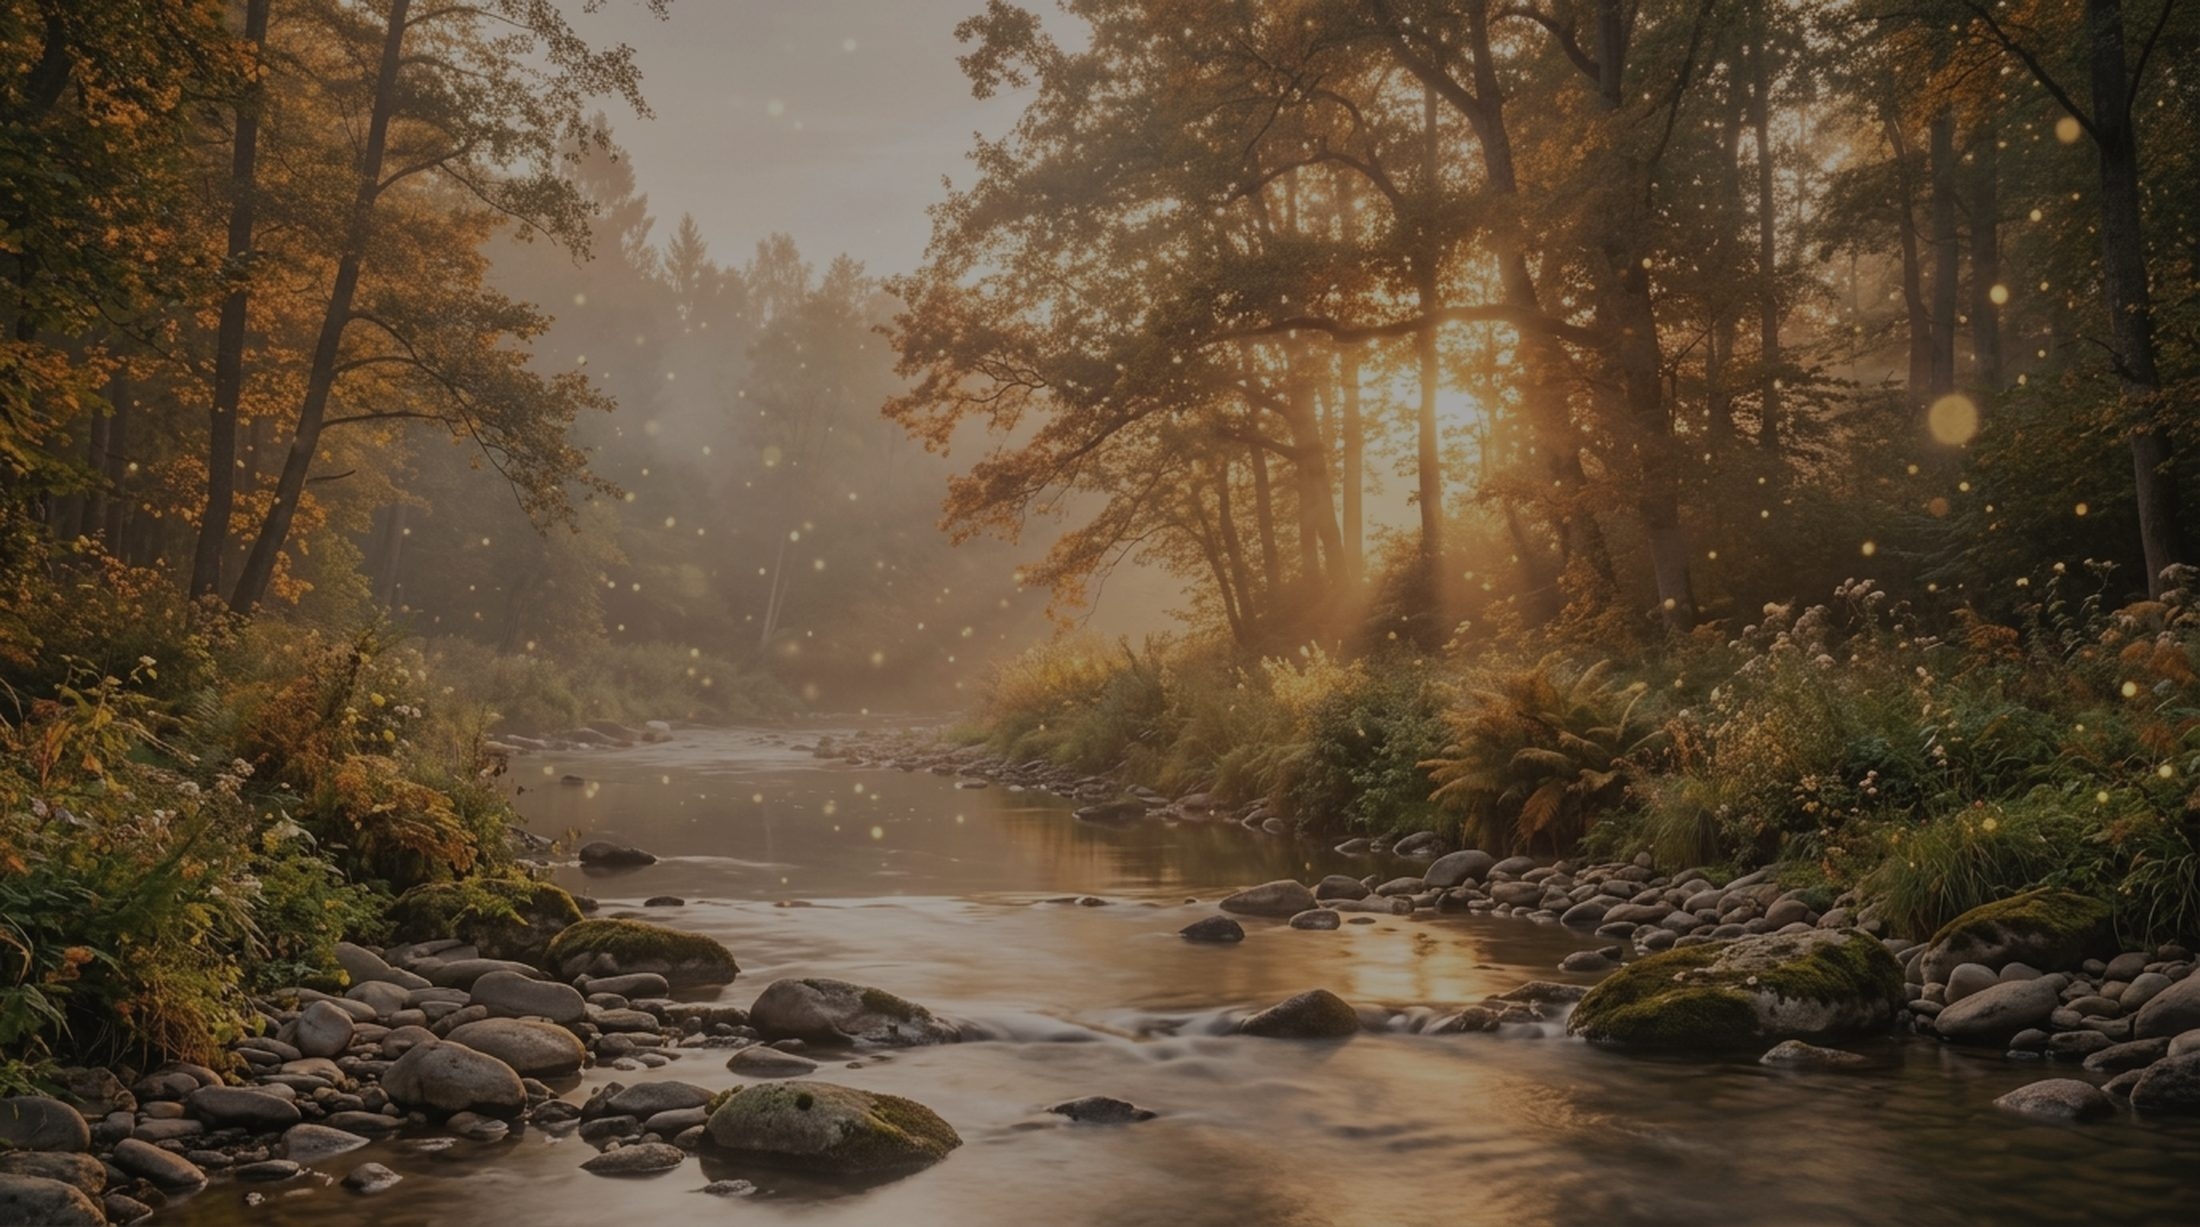
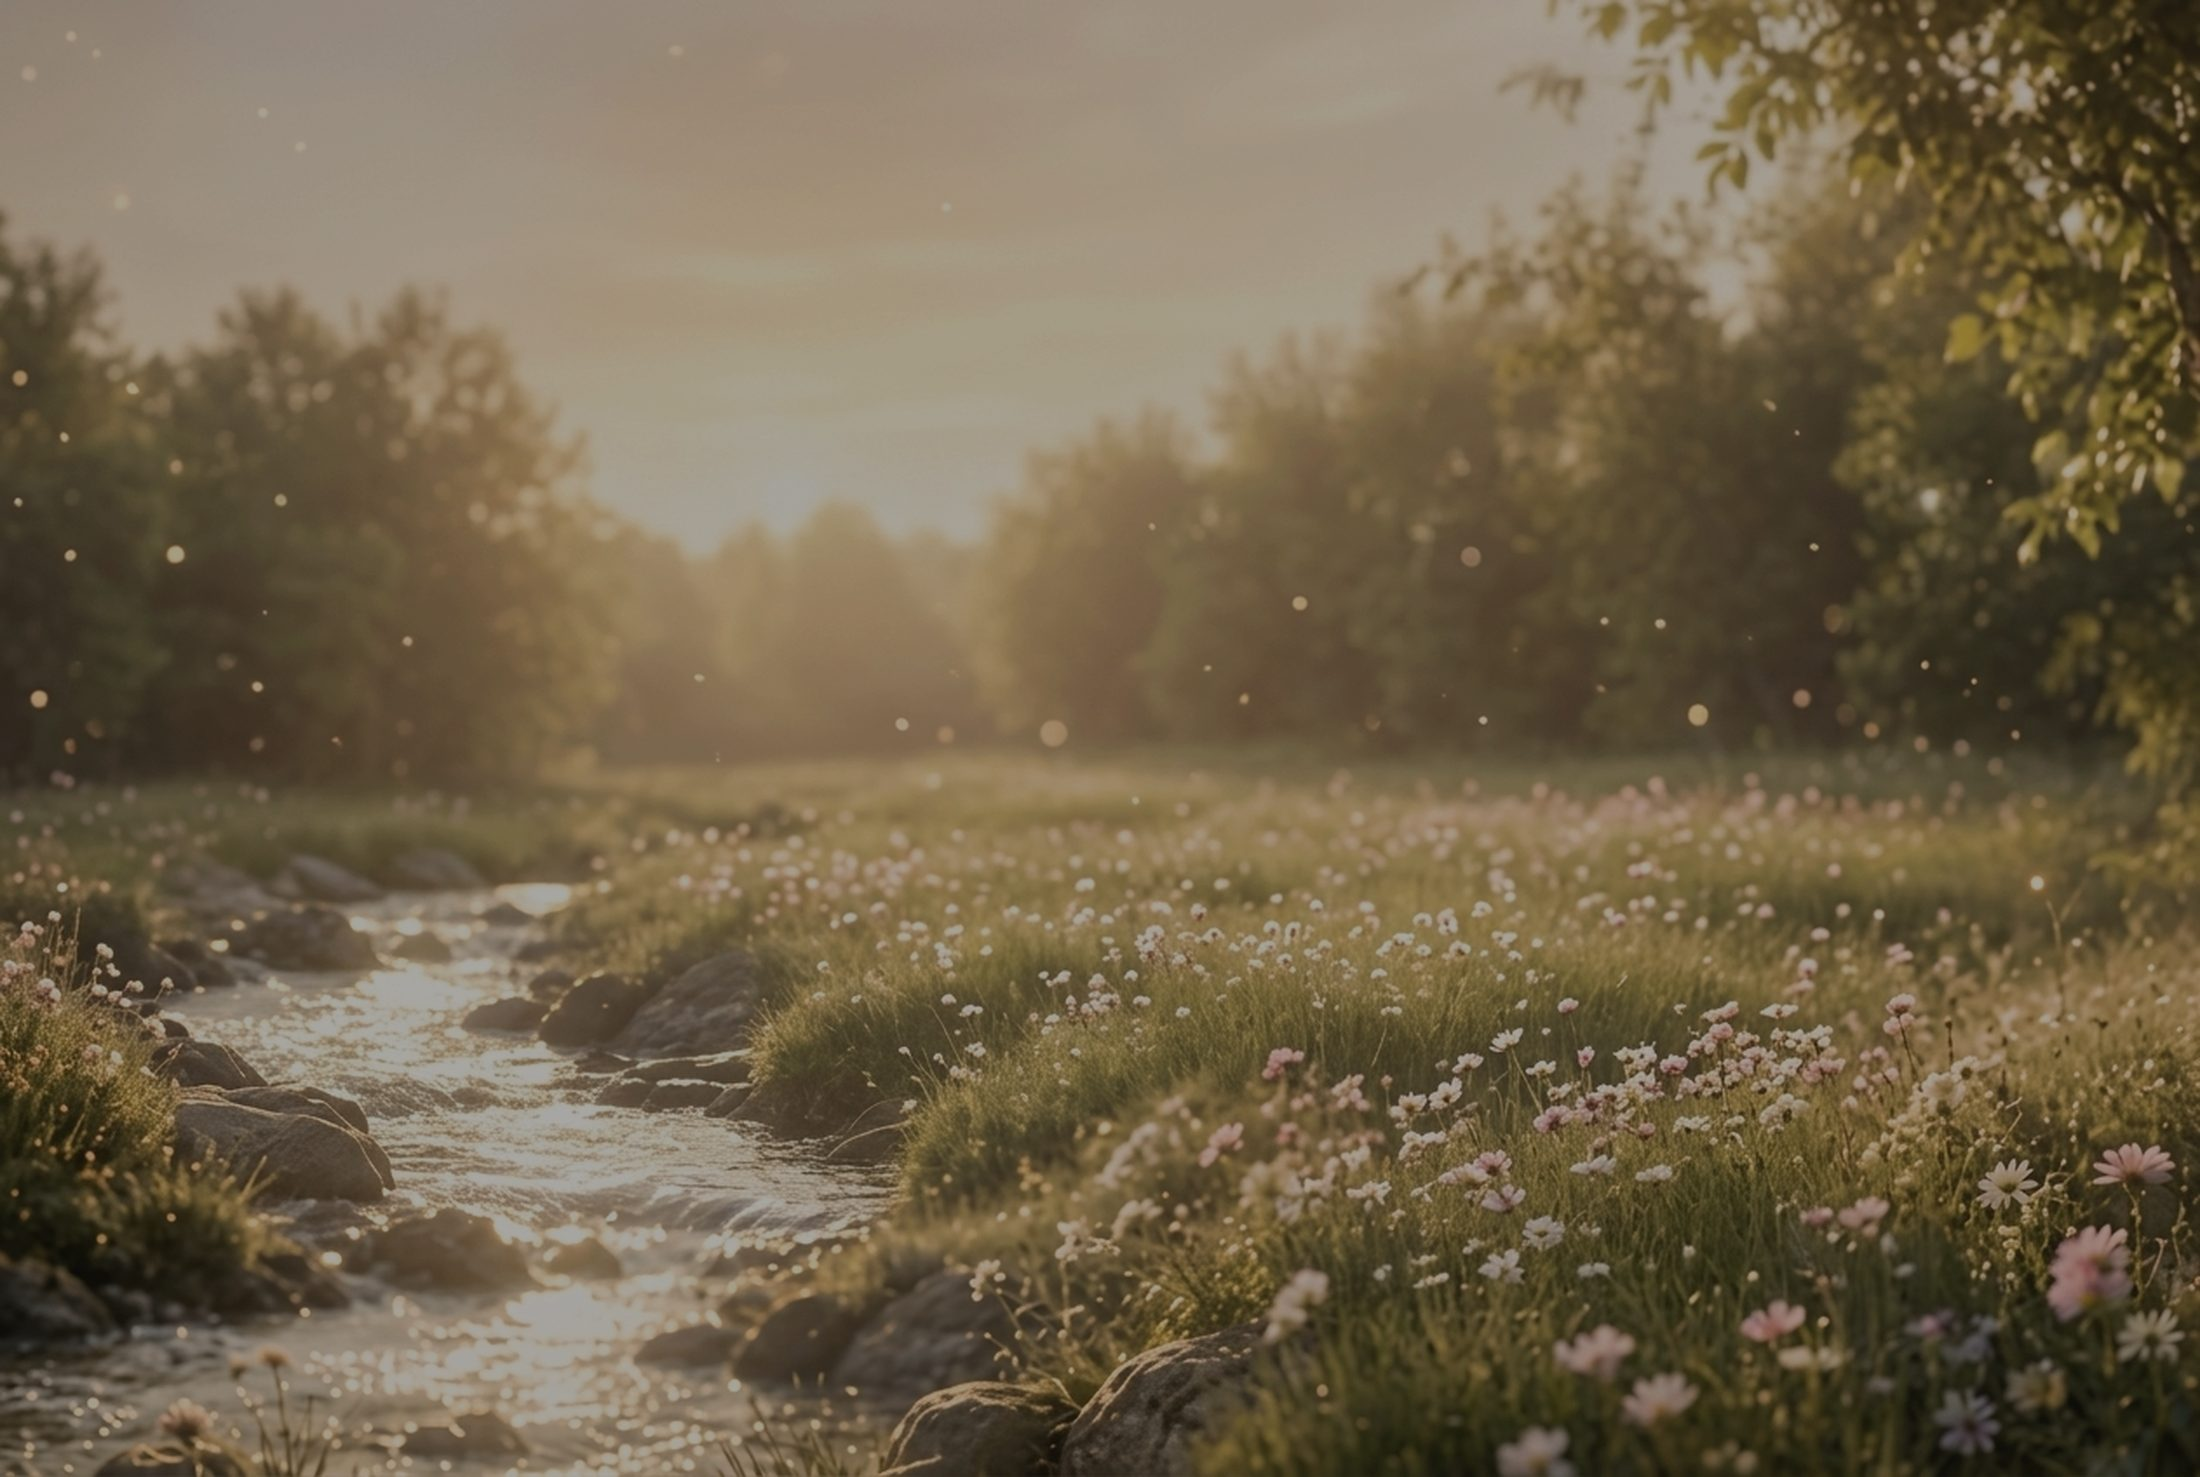
Nyt hero-baggrundsbillede og transparent navigation
- Nyt, professionelt nedtonet baggrundsbillede (eng med å, blomster og gyldent lys)
- Navigationen er nu transparent, når man er øverst på siden, så baggrundsbilledet går helt op til kanten - matcher referencedesignet
- Navigationen får en let, læsbar baggrund (blur + bund-kant), så snart man scroller forbi hero-sektionen

diff --git a/index.html b/index.html
@@ -79,7 +79,7 @@
 <body class="bg-cream text-ink font-sans antialiased">
 
 <!-- ============ NAVIGATION ============ -->
-<header class="fixed top-0 inset-x-0 z-50 bg-cream/80 backdrop-blur-md border-b border-gold/10">
+<header id="site-header" class="fixed top-0 inset-x-0 z-50 bg-transparent border-b border-transparent transition-colors duration-300">
   <nav class="max-w-7xl mx-auto flex items-center justify-between px-6 lg:px-10 py-5">
     <a href="/" id="nav-logo" class="font-serif text-xl md:text-2xl tracked uppercase text-ink">Kim Nielsen</a>
 
@@ -559,6 +559,24 @@
   document.getElementById('menu-toggle').addEventListener('click', () => {
     document.getElementById('mobile-menu').classList.toggle('hidden');
   });
+
+  // Navigationen er transparent oven på hero-billedet og bliver først
+  // til en almindelig, læsbar bjælke, når man har scrollet forbi den.
+  const siteHeader = document.getElementById('site-header');
+  const SOLID_CLASSES = ['bg-cream/90', 'backdrop-blur-md', 'border-gold/10', 'shadow-[0_1px_12px_-4px_rgba(46,42,34,0.15)]'];
+  const TRANSPARENT_CLASSES = ['bg-transparent', 'border-transparent'];
+
+  function updateHeaderState() {
+    const scrolled = window.scrollY > 24;
+    siteHeader.classList.toggle('bg-cream/90', scrolled);
+    siteHeader.classList.toggle('backdrop-blur-md', scrolled);
+    siteHeader.classList.toggle('border-gold/10', scrolled);
+    siteHeader.classList.toggle('shadow-[0_1px_12px_-4px_rgba(46,42,34,0.15)]', scrolled);
+    siteHeader.classList.toggle('bg-transparent', !scrolled);
+    siteHeader.classList.toggle('border-transparent', !scrolled);
+  }
+  window.addEventListener('scroll', updateHeaderState, { passive: true });
+  updateHeaderState();
 
   loadForside();
 </script>
